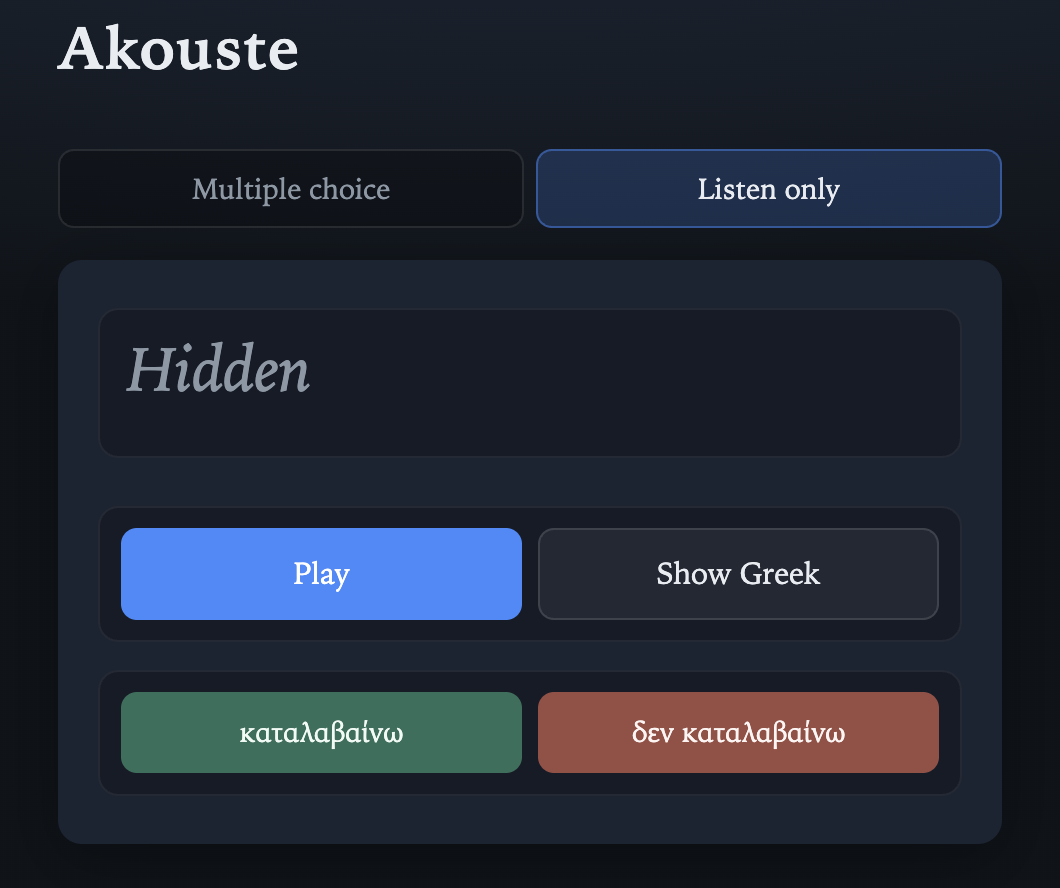
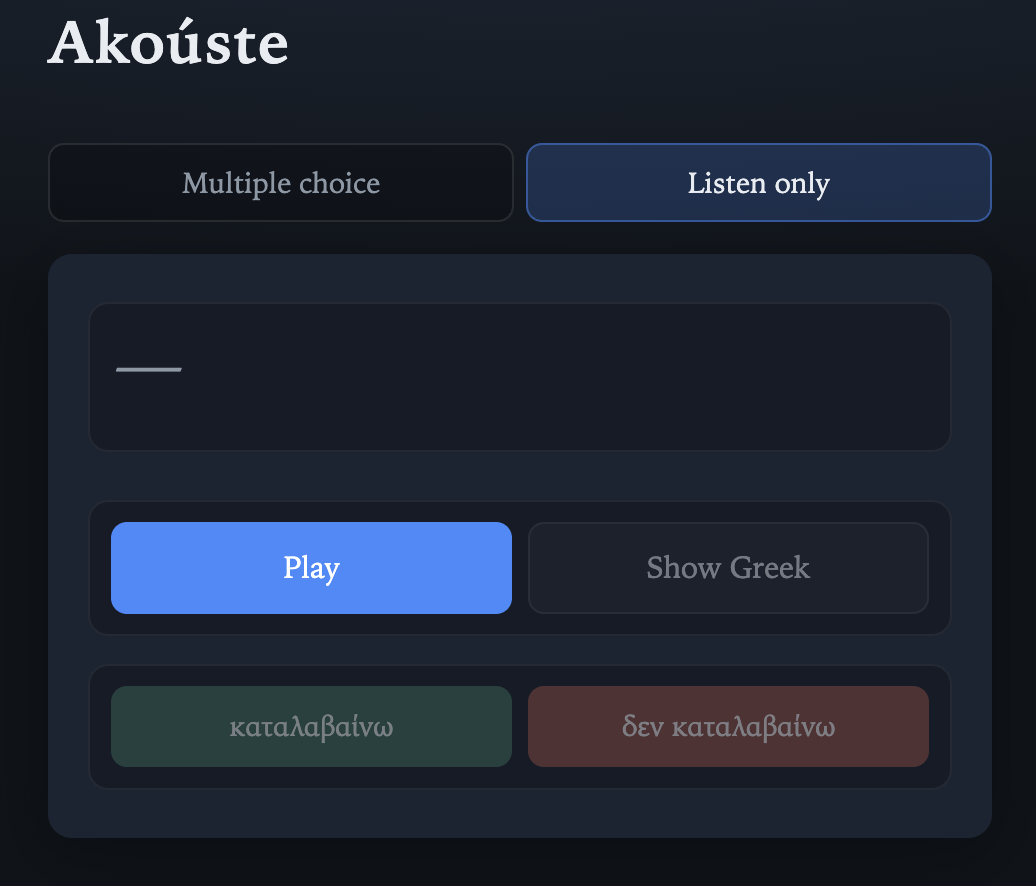
Use Akoúste spelling in app shell and README
- Title and h1 in index.html; heading and prose in README (URLs unchanged)
- Refresh docs screenshots to match

Made-with: Cursor

diff --git a/index.html b/index.html
@@ -3,13 +3,13 @@
   <head>
     <meta charset="UTF-8" />
     <meta name="viewport" content="width=device-width, initial-scale=1.0" />
-    <title>Akouste</title>
+    <title>Akoúste</title>
     <link rel="stylesheet" href="/src/styles.css" />
   </head>
   <body>
     <div id="app">
       <header class="header">
-        <h1 class="title">Akouste</h1>
+        <h1 class="title">Akoúste</h1>
       </header>
 
       <p id="status" class="status" role="status"></p>

diff --git a/README.md b/README.md
@@ -1,8 +1,8 @@
-# Akouste
+# Akoúste
 
 Live at: [https://pnthomas.github.io/akouste/](https://pnthomas.github.io/akouste/)  
 
-Akouste is a listening-comprehension practice app for Greek (ákouste means "listen" in Greek). Its goal is to make listening practice low-stress and confidence-building, especially for beginners following a classroom course.
+Akoúste is a listening-comprehension practice app for Greek (akoúste means "listen" in Greek). Its goal is to make listening practice low-stress and confidence-building, especially for beginners following a classroom course.
 
 Runs in browser via web so it should work on any device. Tested on OSX + Chrome and Pixel 9 + Chrome. It uses TTS so you might have to add Greek as a supported TTS langage on your mobile device, see **Mobile Setup**, below.
 
@@ -39,7 +39,7 @@ Runs in browser via web so it should work on any device. Tested on OSX + Chrome 
 
 ## Question corpus strategy
 
-To keep runtime simple and cheap, Akouste uses a **pre-generated, finite corpus** of Q&A pairs:
+To keep runtime simple and cheap, Akoúste uses a **pre-generated, finite corpus** of Q&A pairs:
 
 1. **Generate English Q&A with an LLM**
   - Use a large language model to create hundreds of simple, closed-ended Q&A pairs in **English**, constrained by:
